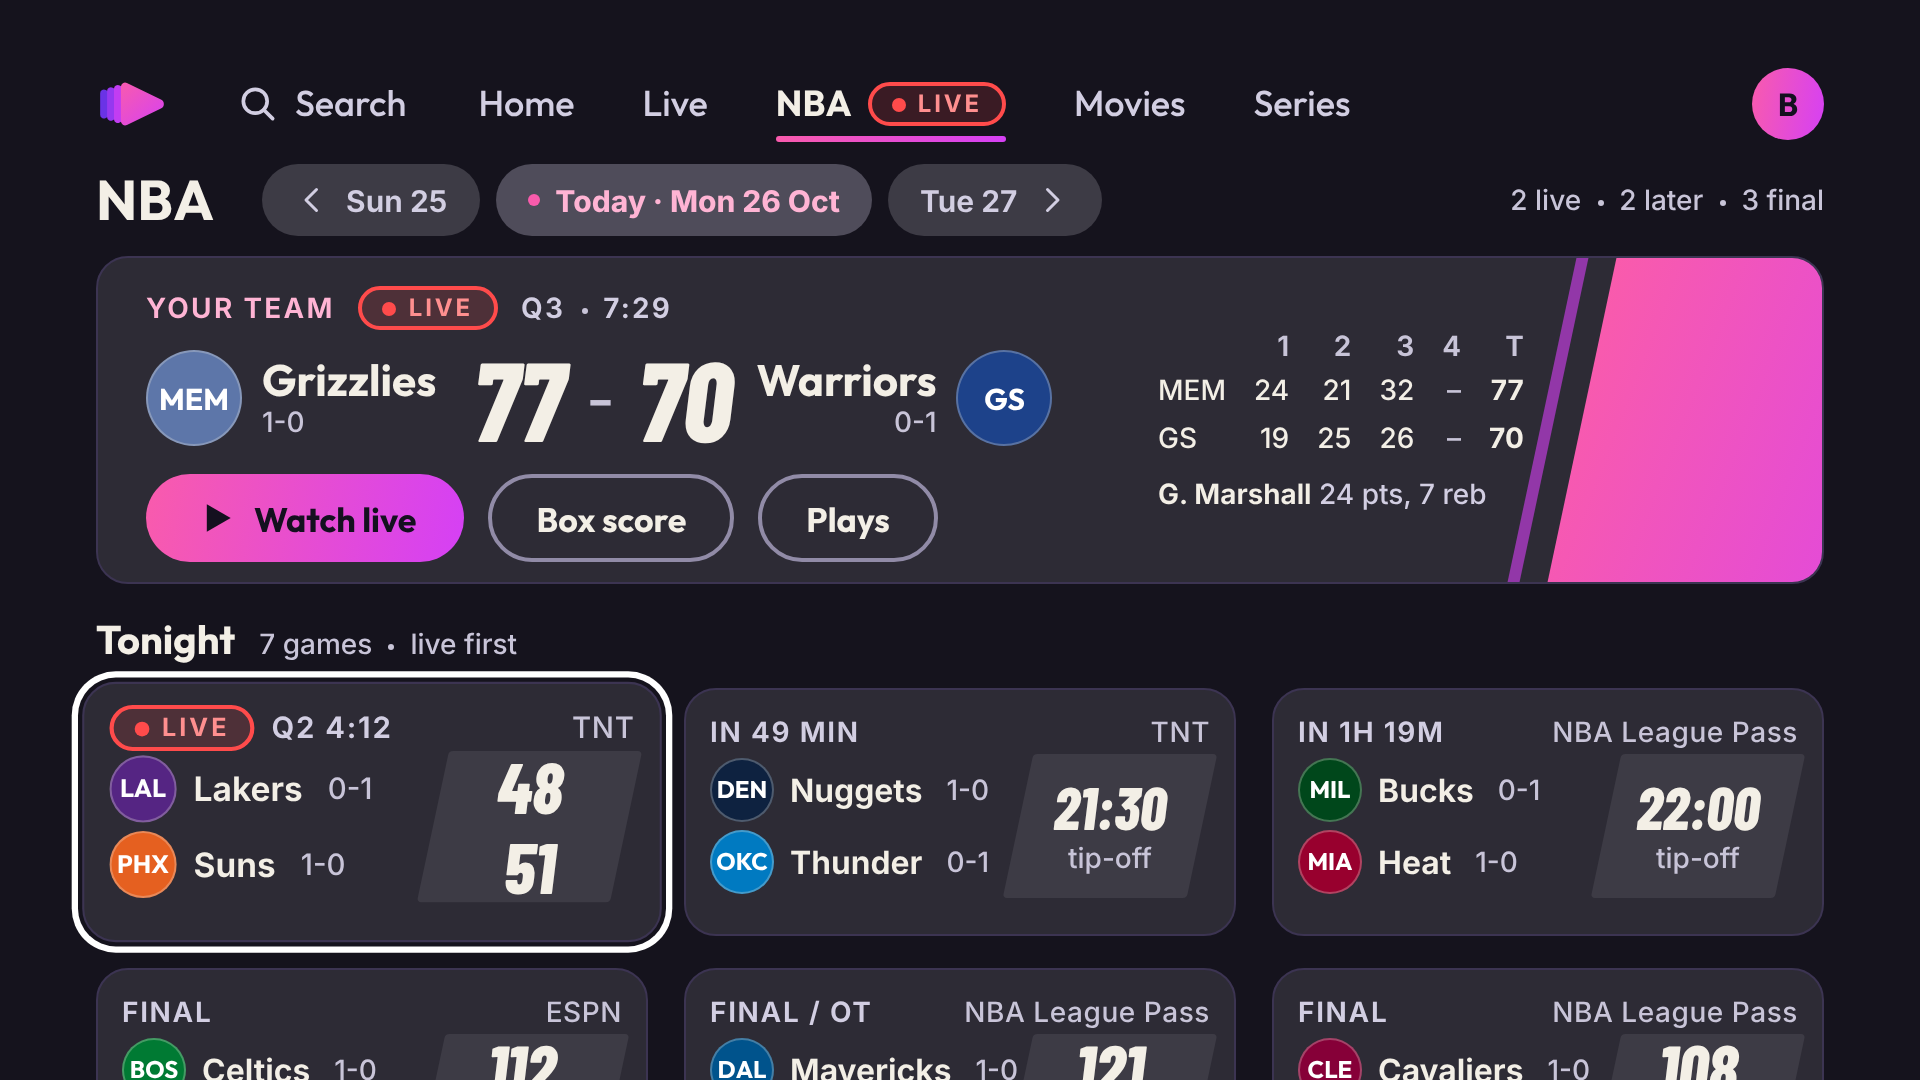
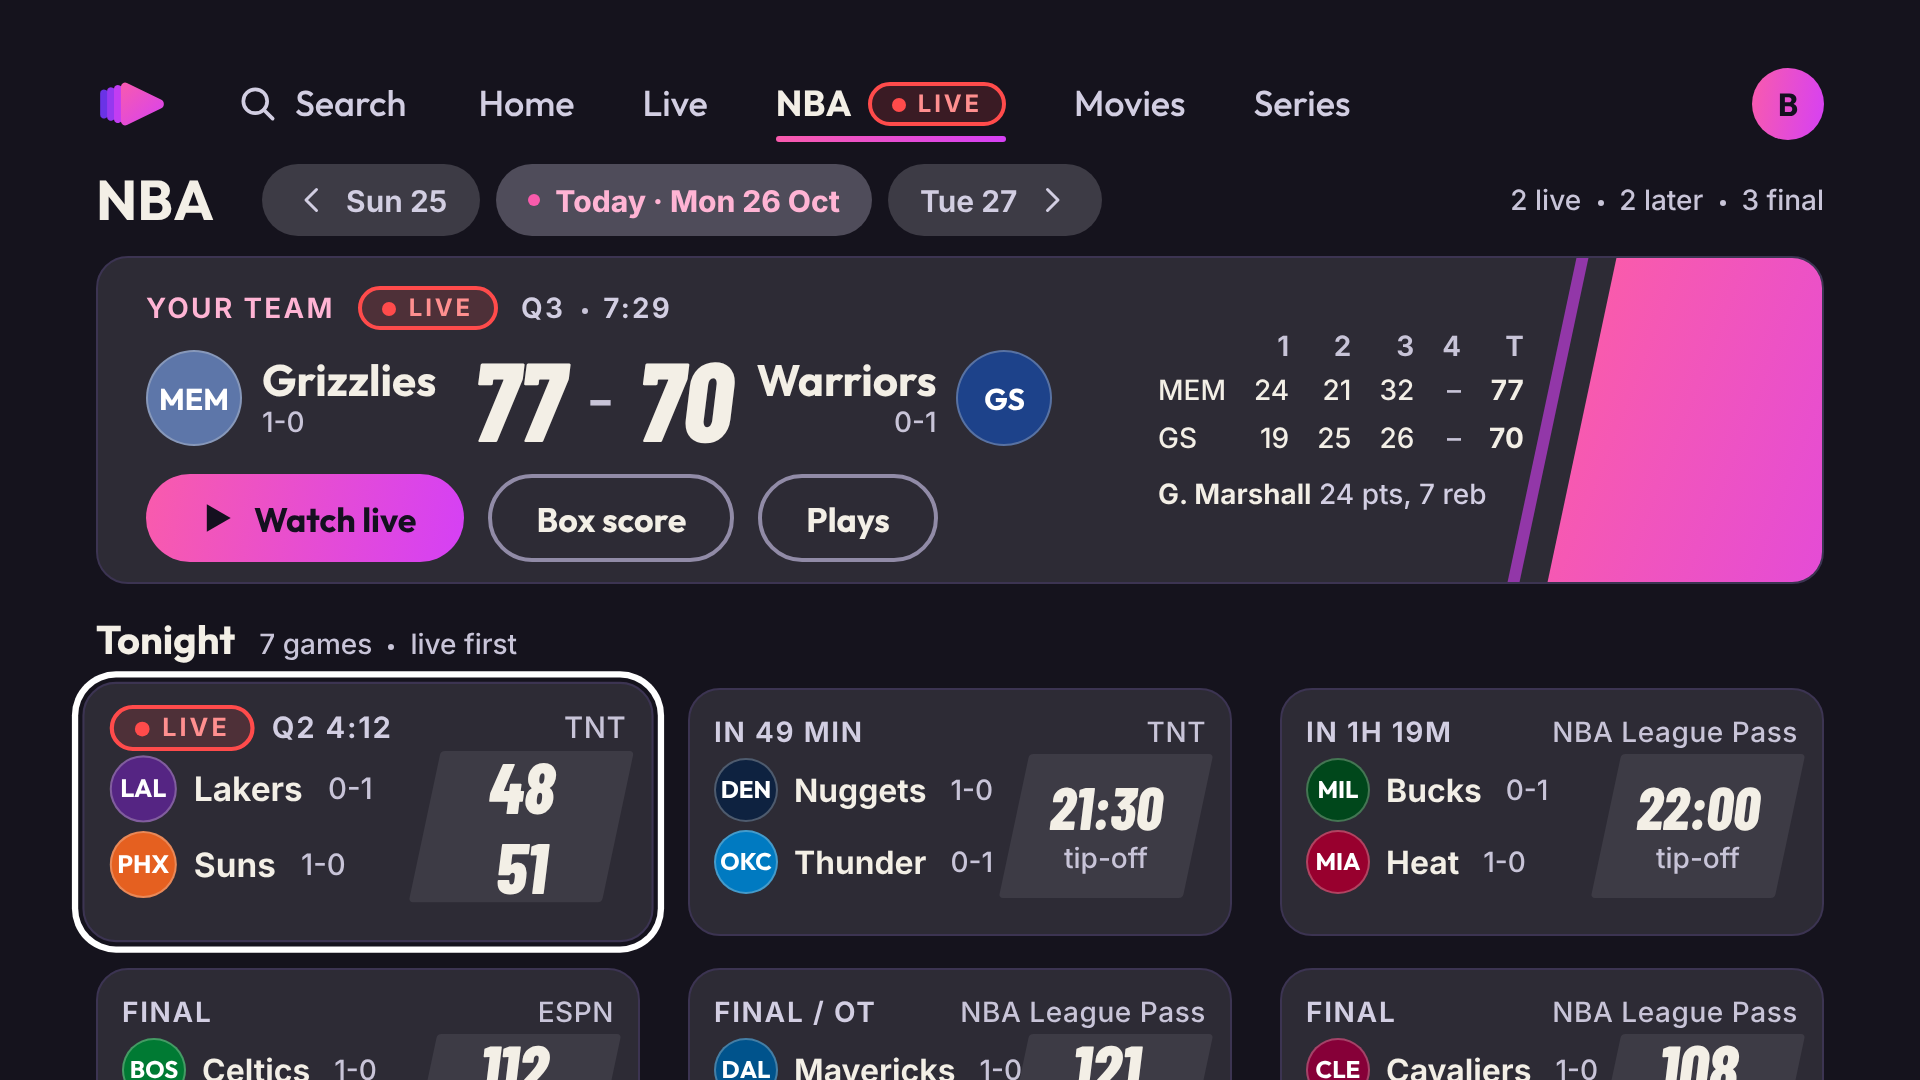
UI v1: final milestone work in progress
Claude-Session: https://claude.ai/code/session_015UgfZhFtzJizh9RMWRrN9x

diff --git a/design/ui-v1/ui.css b/design/ui-v1/ui.css
@@ -81,8 +81,8 @@ svg.ic.fill{fill:currentColor;stroke:none}
 .noart .nt{font:650 13px/16px var(--a-font-text);color:var(--a-text-1)}
 .ptitle{position:absolute;left:0;right:0;bottom:0;padding:26px 10px 9px;background:linear-gradient(180deg,rgba(21,19,29,0),rgba(21,19,29,.9))}
 
-.pc{width:129px;flex:none;position:relative}
-.pc .box{position:relative;width:129px;height:194px;border-radius:12px;overflow:hidden;border:1px solid var(--a-border);background:var(--a-surface-1)}
+.pc{width:124px;flex:none;position:relative}
+.pc .box{position:relative;width:124px;height:186px;border-radius:12px;overflow:hidden;border:1px solid var(--a-border);background:var(--a-surface-1)}
 .pc .ptl{position:absolute;left:0;right:0;bottom:0;padding:24px 8px 8px;font:800 14px/15px var(--a-font-display);text-transform:uppercase;letter-spacing:.02em;overflow-wrap:anywhere;color:#F3EFE6;background:linear-gradient(180deg,rgba(21,19,29,0),rgba(21,19,29,.62))}
 .pc .cap{margin-top:8px;font:650 16px/20px var(--a-font-text);color:var(--a-text-2);white-space:nowrap;overflow:hidden;text-overflow:ellipsis}
 .pc .cm{font:500 14px/18px var(--a-font-text);color:var(--a-text-3);white-space:nowrap;overflow:hidden;text-overflow:ellipsis}
@@ -91,14 +91,14 @@ svg.ic.fill{fill:currentColor;stroke:none}
 .pc.fc .cap{color:var(--a-text-1)}
 .pc .box.f{transform:scale(1.05)}
 
-.wc{width:204px;height:115px;flex:none;position:relative;border-radius:16px;overflow:hidden;border:1px solid var(--a-border);background:var(--a-surface-1)}
+.wc{width:198px;height:111px;flex:none;position:relative;border-radius:16px;overflow:hidden;border:1px solid var(--a-border);background:var(--a-surface-1)}
 .wc .tx{position:absolute;left:0;right:0;bottom:0;padding:30px 12px 10px;background:linear-gradient(180deg,rgba(21,19,29,0),rgba(21,19,29,.86) 36%,rgba(21,19,29,.94))}
 .wc .tx b{display:block;font:650 16px/20px var(--a-font-text);color:var(--a-text-1);white-space:nowrap;overflow:hidden;text-overflow:ellipsis}
 .wc .tx span{display:block;font:500 14px/18px var(--a-font-text);color:var(--a-text-2);white-space:nowrap;overflow:hidden;text-overflow:ellipsis}
 .wc .tl{position:absolute;left:8px;top:8px;display:flex;gap:4px}
 .wc .tr{position:absolute;right:8px;top:8px}
 
-.lc{width:204px;height:115px;flex:none;position:relative;border-radius:16px;overflow:hidden;border:1px solid var(--a-border);background:var(--a-surface-1);padding:12px 12px 0}
+.lc{width:198px;height:111px;flex:none;position:relative;border-radius:16px;overflow:hidden;border:1px solid var(--a-border);background:var(--a-surface-1);padding:12px 12px 0}
 .lc .tp{display:flex;align-items:center;gap:8px}
 .lc .tp .n{margin-left:auto;font:650 14px/18px var(--a-font-text);color:var(--a-text-3)}
 .lc .bt{position:absolute;left:12px;right:12px;bottom:12px}
@@ -106,7 +106,7 @@ svg.ic.fill{fill:currentColor;stroke:none}
 .lc .bt .sb{display:flex;align-items:center;font:500 14px/18px var(--a-font-text);color:var(--a-text-3);white-space:nowrap;overflow:hidden}
 .rowtitle{font:700 22px/28px var(--a-font-display);color:var(--a-text-1);display:flex;align-items:baseline;gap:12px}
 .rowtitle small{font:500 14px/18px var(--a-font-text);color:var(--a-text-3)}
-.rail{display:flex;gap:16px;padding:10px 0 10px 48px;margin-top:-10px;overflow:hidden}   /* rows bleed off the right edge: the peek tells you there is more */
+.rail{display:flex;gap:24px;padding:10px 0 10px 48px;margin-top:-10px;overflow:hidden}   /* rows bleed off the right edge: the peek tells you there is more */
 
 /* ---------- channel logo tile (placeholder for provider logos) ---------- */
 .logo{width:40px;height:40px;border-radius:8px;background:var(--a-surface-2);display:grid;place-items:center;font:700 14px/1 var(--a-font-display);color:var(--a-text-2);flex:none;letter-spacing:.02em}
@@ -183,7 +183,7 @@ svg.ic.fill{fill:currentColor;stroke:none}
 /* ---------- Library ---------- */
 .lib-head{position:absolute;left:48px;right:48px;top:80px;height:40px;display:flex;align-items:center;gap:16px}
 .lib-chips{position:absolute;left:48px;right:0;top:128px;height:36px;display:flex;gap:8px;overflow:hidden}
-.lib-grid{position:absolute;left:48px;top:176px;width:864px;display:grid;grid-template-columns:repeat(6,129px);column-gap:18px;row-gap:16px}
+.lib-grid{position:absolute;left:48px;top:176px;width:864px;display:grid;grid-template-columns:repeat(6,124px);column-gap:24px;row-gap:14px}
 
 /* ---------- Detail ---------- */
 .d-art{position:absolute;right:0;top:0;width:640px;height:540px;overflow:hidden}
@@ -207,7 +207,7 @@ svg.ic.fill{fill:currentColor;stroke:none}
 
 /* ---------- NBA hub ---------- */
 .nba-hero{position:absolute;left:48px;right:48px;top:128px;height:164px;border-radius:16px;background:var(--a-surface-1);border:1px solid var(--a-border);overflow:hidden}
-.gc{position:relative;width:276px;height:124px;border-radius:16px;background:var(--a-surface-1);border:1px solid var(--a-border);padding:10px 12px 0}
+.gc{position:relative;width:272px;height:124px;border-radius:16px;background:var(--a-surface-1);border:1px solid var(--a-border);padding:10px 12px 0}
 .gc .st{display:flex;align-items:center;gap:8px;height:22px;font:650 14px/16px var(--a-font-text);color:var(--a-text-2);letter-spacing:.06em;text-transform:uppercase}
 .gc .st .tvn{margin-left:auto;color:var(--a-text-3);letter-spacing:.02em;text-transform:none;font-weight:500}
 .gc .tr{display:flex;align-items:center;gap:8px;height:36px}
@@ -230,7 +230,7 @@ svg.ic.fill{fill:currentColor;stroke:none}
 .btn-full{width:100%}
 .sheet-foot{margin-top:auto;display:flex;flex-direction:column;gap:10px}
 
-.nba-grid{position:absolute;left:48px;top:344px;display:grid;grid-template-columns:repeat(3,276px);gap:16px 18px}
+.nba-grid{position:absolute;left:48px;top:344px;display:grid;grid-template-columns:repeat(3,272px);gap:16px 24px}
 .ls{border-collapse:collapse;font:500 14px/20px var(--a-font-text);color:var(--a-text-1)}
 .ls th{font:650 14px/16px var(--a-font-text);color:var(--a-text-3);text-align:right;padding:0 0 2px 14px}
 .ls th:first-child,.ls td:first-child{text-align:left;padding-left:0}
@@ -248,6 +248,6 @@ svg.ic.fill{fill:currentColor;stroke:none}
 .shelf-title{display:flex;align-items:baseline;gap:12px;padding-left:48px}
 .strip{height:20px;margin:2px 0 6px 48px;font:500 14px/20px var(--a-font-text);color:var(--a-text-2);white-space:nowrap;overflow:hidden}
 .strip b{font-weight:650;color:var(--a-text-1)}
-.endcard{width:129px;height:194px;flex:none;border-radius:12px;border:2px dashed var(--a-border-strong);display:flex;flex-direction:column;align-items:center;justify-content:center;gap:8px;color:var(--a-text-2);font:650 16px/20px var(--a-font-text);text-align:center;padding:0 10px}
+.endcard{width:124px;height:186px;flex:none;border-radius:12px;border:2px dashed var(--a-border-strong);display:flex;flex-direction:column;align-items:center;justify-content:center;gap:8px;color:var(--a-text-2);font:650 16px/20px var(--a-font-text);text-align:center;padding:0 10px}
 
 .dayrow .t-cap{white-space:nowrap}
